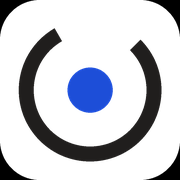
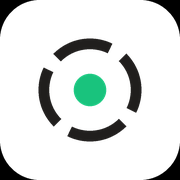
Green hub, navy and amber deck
The mark's hub turns green, so the deck moves off green entirely: navy panels,
amber accents, brick for the negative (the fishbone's effect box and the
excluded-features column). Green now appears nowhere but the mark.

A saturated green is naturally light, so #19C37D only reaches 2:1 on the light
ground where the old blue reached 5.68:1. It reads because the dashed ring
frames it (7.32:1 against the ink) rather than relying on the page behind it.
Amber text clears 5.31:1, white on the navy panel 15.04:1, white on the brick
box 7.01:1. Favicon and the Canva exports follow the same green.

Changed region(s): [[0.0833, 0.1389, 0.9167, 0.9167], [0.3611, 0.3611, 0.6389, 0.6389]]

diff --git a/src/index.css b/src/index.css
@@ -14,10 +14,10 @@
    --------------------------------------------------------------- */
 
 :root{
-  /* Hue does the separating, not saturation: the deck's accents are emerald,
-     so the mark's blue stays the only blue on the page and everything else
-     can stay fully saturated. Amber warns, brick excludes. */
-  --logo-blue:#1D4ED8;
+  /* The mark's hub is the only green on the page, so the deck goes navy with
+     amber accents. Brick carries the negative: the fishbone's effect box and
+     the excluded-features column. */
+  --logo-green:#19C37D;
 
   --ground:#F1EFEB;
   --surface:#FBFAF7;
@@ -26,24 +26,24 @@
   --muted:#635E58;
   --line:#D6D1CA;
 
-  --sign:#075C3B;
-  --sign-deep:#044229;
+  --sign:#17233A;
+  --sign-deep:#0E1626;
   --on-sign:#FBFAF7;
 
-  --accent:#0B7A4F;
-  --accent-ink:#0B6B46;
-  --accent-line:#0B7A4F;
-  --panel-fill:#075C3B;
-  --amber:#9A6108;
+  --accent:#8A5707;
+  --accent-ink:#8A5707;
+  --accent-line:#8A5707;
+  --panel-fill:#17233A;
+  --amber:#8A5707;
   --amber-fill:#F2DFB4;
-  --brick:#A83A24;
+  --brick:#9A3320;
 
   --panel-shadow:0 2px 0 var(--sign-deep), 0 10px 26px -18px rgba(31,29,27,.45);
 }
 
 @media (prefers-color-scheme: dark){
   :root:not([data-theme="light"]){
-    --logo-blue:#1D4ED8;
+    --logo-green:#19C37D;
 
     --ground:#141312;
     --surface:#1E1C1A;
@@ -52,14 +52,14 @@
     --muted:#A09A93;
     --line:#35312D;
 
-    --sign:#0F7A50;
-    --sign-deep:#075C3B;
+    --sign:#24354F;
+    --sign-deep:#17233A;
     --on-sign:#FBFAF7;
 
-    --accent:#35C892;
-    --accent-ink:#35C892;
-    --accent-line:#35C892;
-    --panel-fill:#075C3B;
+    --accent:#E5B45E;
+    --accent-ink:#E5B45E;
+    --accent-line:#E5B45E;
+    --panel-fill:#17233A;
     --amber:#E5B45E;
     --amber-fill:#33290F;
     --brick:#E0806F;
@@ -68,7 +68,7 @@
   }
 }
 :root[data-theme="dark"]{
-  --logo-blue:#1D4ED8;
+  --logo-green:#19C37D;
 
   --ground:#141312;
   --surface:#1E1C1A;
@@ -77,14 +77,14 @@
   --muted:#A09A93;
   --line:#35312D;
 
-  --sign:#0F7A50;
-  --sign-deep:#075C3B;
+  --sign:#24354F;
+  --sign-deep:#17233A;
   --on-sign:#FBFAF7;
 
-  --accent:#35C892;
-  --accent-ink:#35C892;
-  --accent-line:#35C892;
-  --panel-fill:#075C3B;
+  --accent:#E5B45E;
+  --accent-ink:#E5B45E;
+  --accent-line:#E5B45E;
+  --panel-fill:#17233A;
   --amber:#E5B45E;
   --amber-fill:#33290F;
   --brick:#E0806F;

diff --git a/src/components/Fishbone.tsx b/src/components/Fishbone.tsx
@@ -26,7 +26,7 @@ export default function Fishbone() {
           fill="currentColor"
         />
 
-        <rect x={1330} y={252} width={320} height={186} rx={7} fill="#D9A33C" stroke="var(--sign-deep)" strokeWidth={2} />
+        <rect x={1330} y={252} width={320} height={186} rx={7} fill="#9A3320" stroke="#6E2415" strokeWidth={2} />
         {EFFECT.map((line, i) => (
           <text
             key={line}
@@ -34,7 +34,7 @@ export default function Fishbone() {
             y={298 + i * 32}
             fontSize={21}
             fontWeight={600}
-            fill="var(--sign)"
+            fill="#FBFAF7"
           >
             {line}
           </text>
